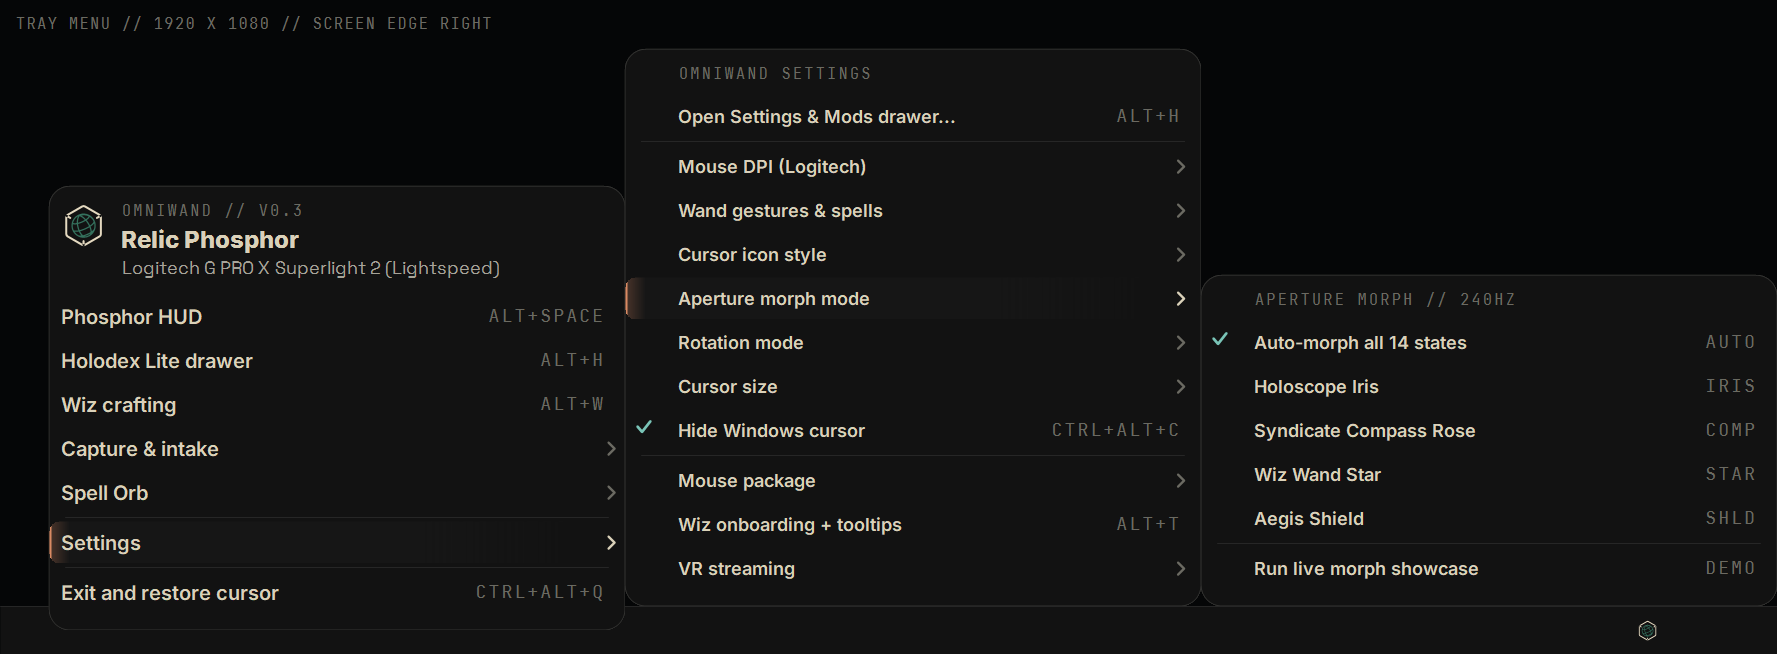
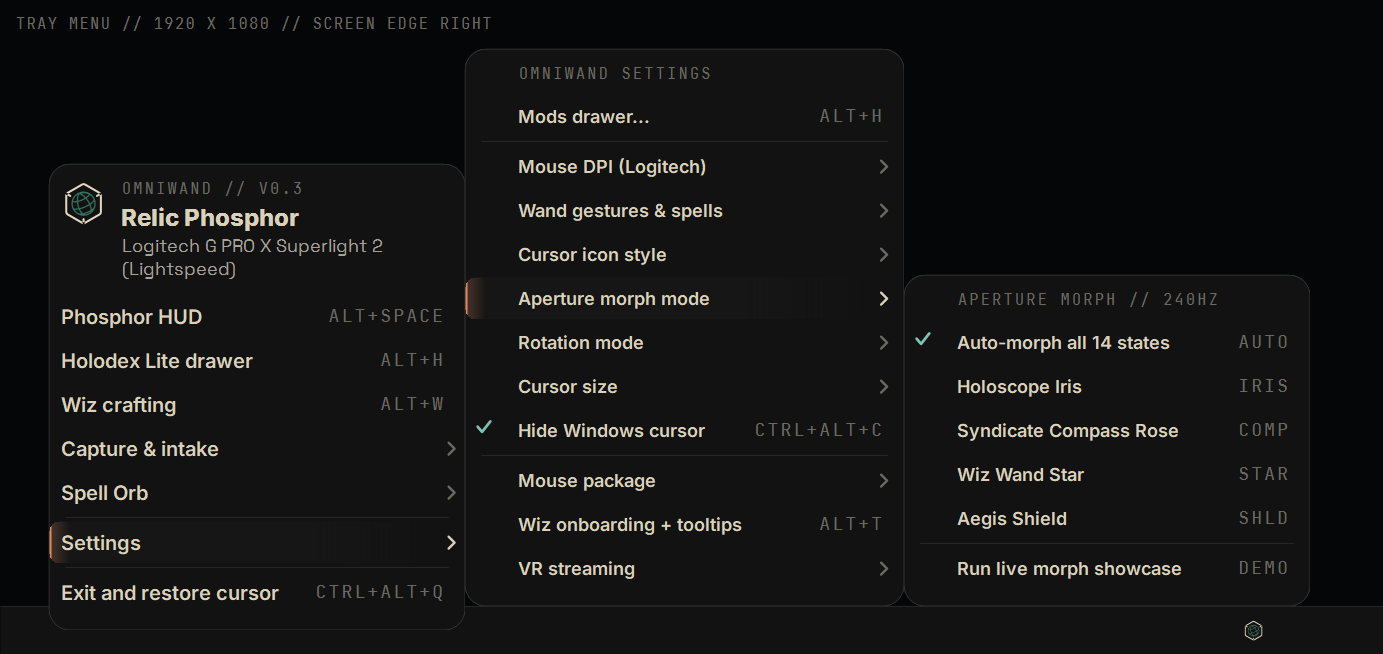
fix(tray): main menu opens 23% closer to the tray, every submenu still right
The tray menu sits left of the tray by the full width of its deepest submenu
chain (root, Settings, a Settings submenu) so each submenu can open to the
right. PhosphorMenuLayout gave every panel the widest panel's width, so that
chain cost three 577px panels at 150% DPI: the root opened 1729px from the
screen edge. Each panel now takes its own content width (271 to 480px), and
the chain is 417 + 440 + 480: the root opens 1335px from the edge (about 890px
at 100%). Placement (PlaceRootLeft over Reach) and DropDownDirection.Right are
unchanged.

Say it once, which also narrows the widest panel (577 to 480px):
- Wand gestures: the spell rows named the gesture in the label and again in
  the shortcut column ("Shake L-R -> Time Splitter", "SHAKE X"); the label is
  now the spell and the column the gesture (SHAKE L-R, SHAKE U-D, CIRCLE,
  SWEEP R). The arm toggles read "Ctrl + gesture" and "Right-click + gesture"
  under the eyebrow "Spells // cast with" instead of repeating CTRL and RMB.
- Settings: "Open Settings & Mods drawer..." is "Mods drawer..." under the
  OMNIWAND SETTINGS eyebrow.

The narrower root header wraps the mouse name between words ("Logitech G PRO
X Superlight 2" / "(Lightspeed)") instead of ellipsizing it.

diff --git a/PhosphorMenuRenderer.cs b/PhosphorMenuRenderer.cs
@@ -315,7 +315,7 @@ internal sealed class PhosphorMenuHeader : ToolStripItem
     /// <summary>
     /// Sized by the eyebrow and title only. The subline (the detected mouse name, which can run long) never
     /// widens the menu: inside the column <see cref="PhosphorMenuLayout"/> gives the panel it breaks onto a
-    /// second line at its " · " separator, and ellipsizes only what still does not fit.
+    /// second line (at its " · " separator, else between words), and ellipsizes only what still does not fit.
     /// </summary>
     public override Size GetPreferredSize(Size constrainingSize)
     {
@@ -333,12 +333,19 @@ internal sealed class PhosphorMenuHeader : ToolStripItem
         return new Size(width, (int)(68 * s + (lines - 1) * subFont.GetHeight(g)));
     }
 
-    /// <summary>The subline on one line when it fits in <paramref name="room"/>, else split at its last " · ".</summary>
+    /// <summary>
+    /// The subline on one line when it fits in <paramref name="room"/>, else split at its last " · ", else at the
+    /// last space that keeps the first line whole.
+    /// </summary>
     private string[] SublineLines(Graphics g, Font font, float room)
     {
-        if (g.MeasureString(_subline, font, PointF.Empty, PhosphorPaint.Typographic).Width <= room) return new[] { _subline };
+        bool Fits(string text) => g.MeasureString(text, font, PointF.Empty, PhosphorPaint.Typographic).Width <= room;
+        if (Fits(_subline)) return new[] { _subline };
         int cut = _subline.LastIndexOf(" · ", StringComparison.Ordinal);
-        return cut > 0 ? new[] { _subline[..cut], _subline[(cut + 3)..] } : new[] { _subline };
+        if (cut > 0) return new[] { _subline[..cut], _subline[(cut + 3)..] };
+        for (int space = _subline.LastIndexOf(' '); space > 0; space = _subline.LastIndexOf(' ', space - 1))
+            if (Fits(_subline[..space])) return new[] { _subline[..space], _subline[(space + 1)..] };
+        return new[] { _subline };
     }
 
     protected override void OnPaint(PaintEventArgs e)
@@ -391,7 +398,7 @@ internal static class PhosphorMenuFrame
 /// <summary>
 /// Bottom margin row for a menu panel (see <see cref="PhosphorMenuFrame"/>). It also carries the panel's column
 /// width: a dropdown sizes its label column to its widest non-menu row, so <see cref="PhosphorMenuLayout"/> sets
-/// <see cref="ColumnWidth"/> to give every panel in a tree the same width.
+/// <see cref="ColumnWidth"/> to land each panel on its content width with the header fitted to it.
 /// </summary>
 internal sealed class PhosphorMenuSpacer : ToolStripItem
 {
@@ -410,9 +417,9 @@ internal sealed class PhosphorMenuSpacer : ToolStripItem
 /// <summary>
 /// Tray menu geometry, one rule for the main menu and every submenu under it:
 /// <list type="number">
-/// <item>Width: every panel in the tree is as wide as the widest panel's content, so labels, shortcut columns and
-/// arrows line up from panel to panel and the reach of a submenu chain is predictable. Decorative rows (the
-/// header, eyebrows) never widen a panel; the header ellipsizes its subline instead.</item>
+/// <item>Width: every panel is as wide as its own content and no wider, because the root has to sit left of the
+/// tray by the whole width of its deepest submenu chain: one shared column made every panel in that chain as wide
+/// as the widest. The header never widens a panel; it breaks and ellipsizes its subline instead.</item>
 /// <item>Direction: every submenu opens to the right (<see cref="ToolStripDropDownDirection.Right"/>). WinForms'
 /// default direction flips a submenu left whenever the screen edge pushes it over its parent row.</item>
 /// <item>Placement: a root menu opened near the right screen edge (the tray) moves left until its deepest
@@ -457,21 +464,17 @@ internal static class PhosphorMenuLayout
         foreach (var panel in autoSized) panel.AutoSize = false;
         try
         {
-            // The column is the widest panel's natural width (its spacer at zero, so content alone decides).
-            int column = 0;
             foreach (var panel in panels)
             {
+                // The panel's width is its own content's (its spacer at zero, so content alone decides).
                 SetStrut(panel, 0, fitHeaders: false);
-                column = Math.Max(column, PreferredWidth(panel));
-            }
+                int width = PreferredWidth(panel);
 
-            // A panel is its label column plus fixed chrome (check gutter, paddings, arrow column). Probe the
-            // chrome with a wide spacer, then size the spacer, and any header, so the panel lands on the column.
-            foreach (var panel in panels)
-            {
+                // A panel is its label column plus fixed chrome (check gutter, paddings, arrow column). Probe the
+                // chrome with a wide spacer, then size the spacer, and any header, so the panel lands on its width.
                 SetStrut(panel, ProbeWidth, fitHeaders: false);
                 int chrome = PreferredWidth(panel) - ProbeWidth;
-                SetStrut(panel, Math.Max(0, column - chrome), fitHeaders: true);
+                SetStrut(panel, Math.Max(0, width - chrome), fitHeaders: true);
             }
         }
         finally

diff --git a/Program.cs b/Program.cs
@@ -358,7 +358,7 @@ internal sealed class OmniwandAppContext : ApplicationContext
         menu.Items.Add(new ToolStripSeparator());
         var settingsMenu = new ToolStripMenuItem("Settings");
 
-        var openSettingsPanelItem = new ToolStripMenuItem("Open Settings && Mods drawer...") { ShortcutKeyDisplayString = "Alt+H" };
+        var openSettingsPanelItem = new ToolStripMenuItem("Mods drawer...") { ShortcutKeyDisplayString = "Alt+H" };
         openSettingsPanelItem.Click += (_, _) => _holodexDrawer.SummonDrawer(GetCursorPoint(), "mods");
         settingsMenu.DropDownItems.Add(openSettingsPanelItem);
         settingsMenu.DropDownItems.Add(new ToolStripSeparator());
@@ -384,38 +384,36 @@ internal sealed class OmniwandAppContext : ApplicationContext
 
         // 2. Wand Gestures & Spells (ported from MagiXLab Video Bench)
         var gestureMenu = new ToolStripMenuItem("Wand gestures && spells");
-        var ctrlGestureToggle = new ToolStripMenuItem("Hold Ctrl + gesture casts spell")
+        var ctrlGestureToggle = new ToolStripMenuItem("Ctrl + gesture")
         {
             Checked = OmniwandSpellGestureEngine.HoldCtrlToArm,
-            CheckOnClick = true,
-            ShortcutKeyDisplayString = "CTRL"
+            CheckOnClick = true
         };
         ctrlGestureToggle.CheckedChanged += (_, _) => OmniwandSpellGestureEngine.HoldCtrlToArm = ctrlGestureToggle.Checked;
         gestureMenu.DropDownItems.Add(ctrlGestureToggle);
 
-        var rmbGestureToggle = new ToolStripMenuItem("Hold Right-Click + gesture casts spell")
+        var rmbGestureToggle = new ToolStripMenuItem("Right-click + gesture")
         {
             Checked = OmniwandSpellGestureEngine.HoldRightMouseToArm,
-            CheckOnClick = true,
-            ShortcutKeyDisplayString = "RMB"
+            CheckOnClick = true
         };
         rmbGestureToggle.CheckedChanged += (_, _) => OmniwandSpellGestureEngine.HoldRightMouseToArm = rmbGestureToggle.Checked;
         gestureMenu.DropDownItems.Add(rmbGestureToggle);
         gestureMenu.DropDownItems.Add(new ToolStripSeparator());
 
-        var spell1Item = new ToolStripMenuItem("Shake L-R  ->  Time Splitter (Wiz Inspect)") { ShortcutKeyDisplayString = "SHAKE X" };
+        var spell1Item = new ToolStripMenuItem("Time Splitter (Wiz Inspect)") { ShortcutKeyDisplayString = "SHAKE L-R" };
         spell1Item.Click += (_, _) => ExecuteWandSpellGesture(WandSpellGestureKind.ShakeHorizontal, GetCursorPoint());
         gestureMenu.DropDownItems.Add(spell1Item);
 
-        var spell2Item = new ToolStripMenuItem("Shake U-D  ->  Copycat (Lasso Snip)") { ShortcutKeyDisplayString = "SHAKE Y" };
+        var spell2Item = new ToolStripMenuItem("Copycat (Lasso Snip)") { ShortcutKeyDisplayString = "SHAKE U-D" };
         spell2Item.Click += (_, _) => ExecuteWandSpellGesture(WandSpellGestureKind.ShakeVertical, GetCursorPoint());
         gestureMenu.DropDownItems.Add(spell2Item);
 
-        var spell3Item = new ToolStripMenuItem("Draw Circle  ->  Mutation (GrimX Spell)") { ShortcutKeyDisplayString = "CIRCLE" };
+        var spell3Item = new ToolStripMenuItem("Mutation (GrimX Spell)") { ShortcutKeyDisplayString = "CIRCLE" };
         spell3Item.Click += (_, _) => ExecuteWandSpellGesture(WandSpellGestureKind.CircleLoop, GetCursorPoint());
         gestureMenu.DropDownItems.Add(spell3Item);
 
-        var spell4Item = new ToolStripMenuItem("Sweep Right  ->  Synthesize (Holodex)") { ShortcutKeyDisplayString = "SWEEP R" };
+        var spell4Item = new ToolStripMenuItem("Synthesize (Holodex)") { ShortcutKeyDisplayString = "SWEEP R" };
         spell4Item.Click += (_, _) => ExecuteWandSpellGesture(WandSpellGestureKind.SweepRight, GetCursorPoint());
         gestureMenu.DropDownItems.Add(spell4Item);
         settingsMenu.DropDownItems.Add(gestureMenu);
@@ -550,7 +548,7 @@ internal sealed class OmniwandAppContext : ApplicationContext
         PhosphorMenuFrame.Apply(captureMenu, "Capture & intake");
         PhosphorMenuFrame.Apply(orbMenu, "Spell Orb // ring slots");
         PhosphorMenuFrame.Apply(settingsMenu, "Omniwand settings");
-        PhosphorMenuFrame.Apply(gestureMenu, "Spells // Ctrl + gesture");
+        PhosphorMenuFrame.Apply(gestureMenu, "Spells // cast with");
         PhosphorMenuFrame.Apply(iconStyleMenu, "Cursor icon // on-brand");
         PhosphorMenuFrame.Apply(morphMenu, "Aperture morph // 240Hz");
         PhosphorMenuFrame.Apply(modeMenu, "Wand rotation");
